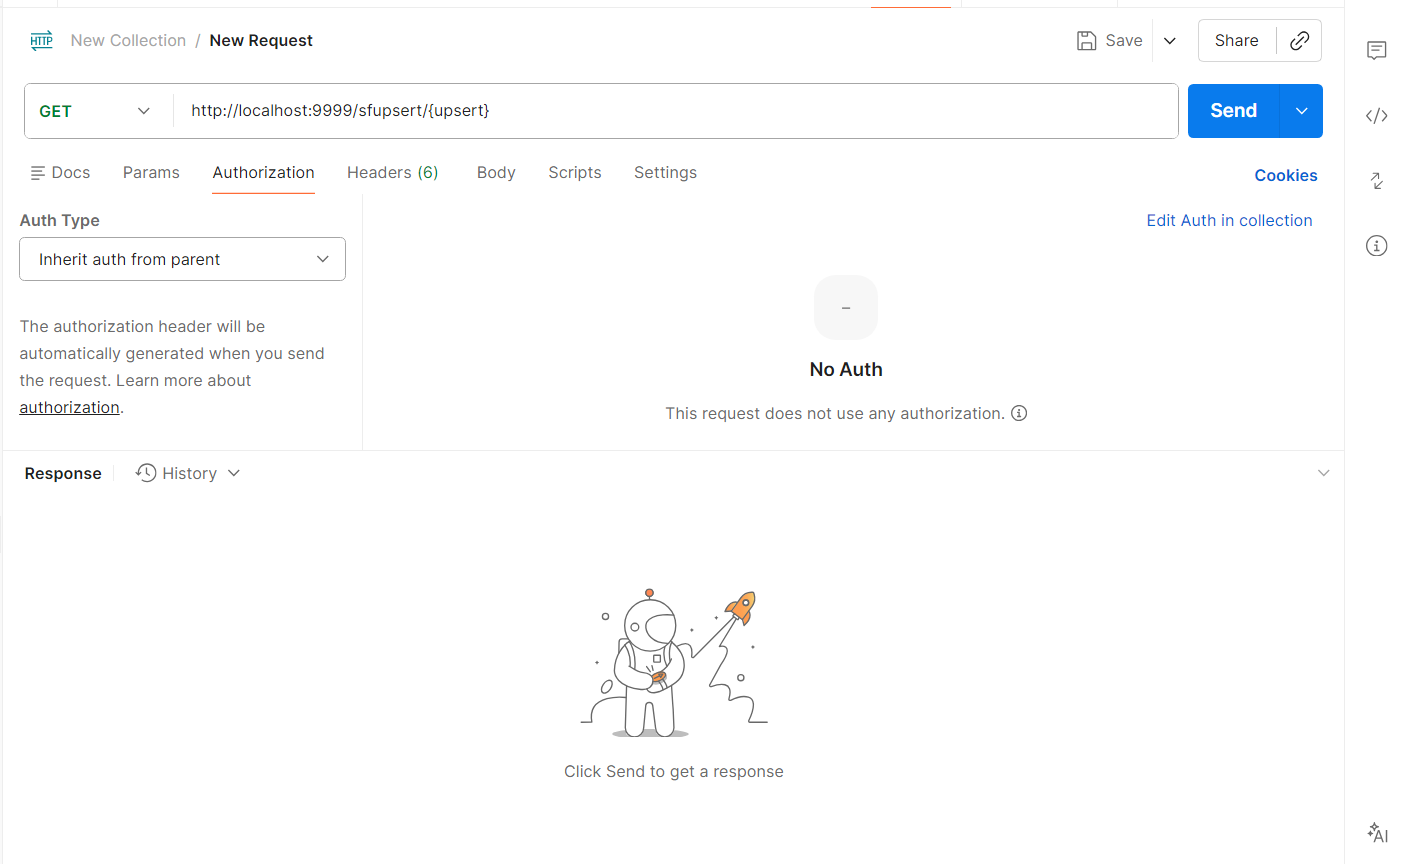
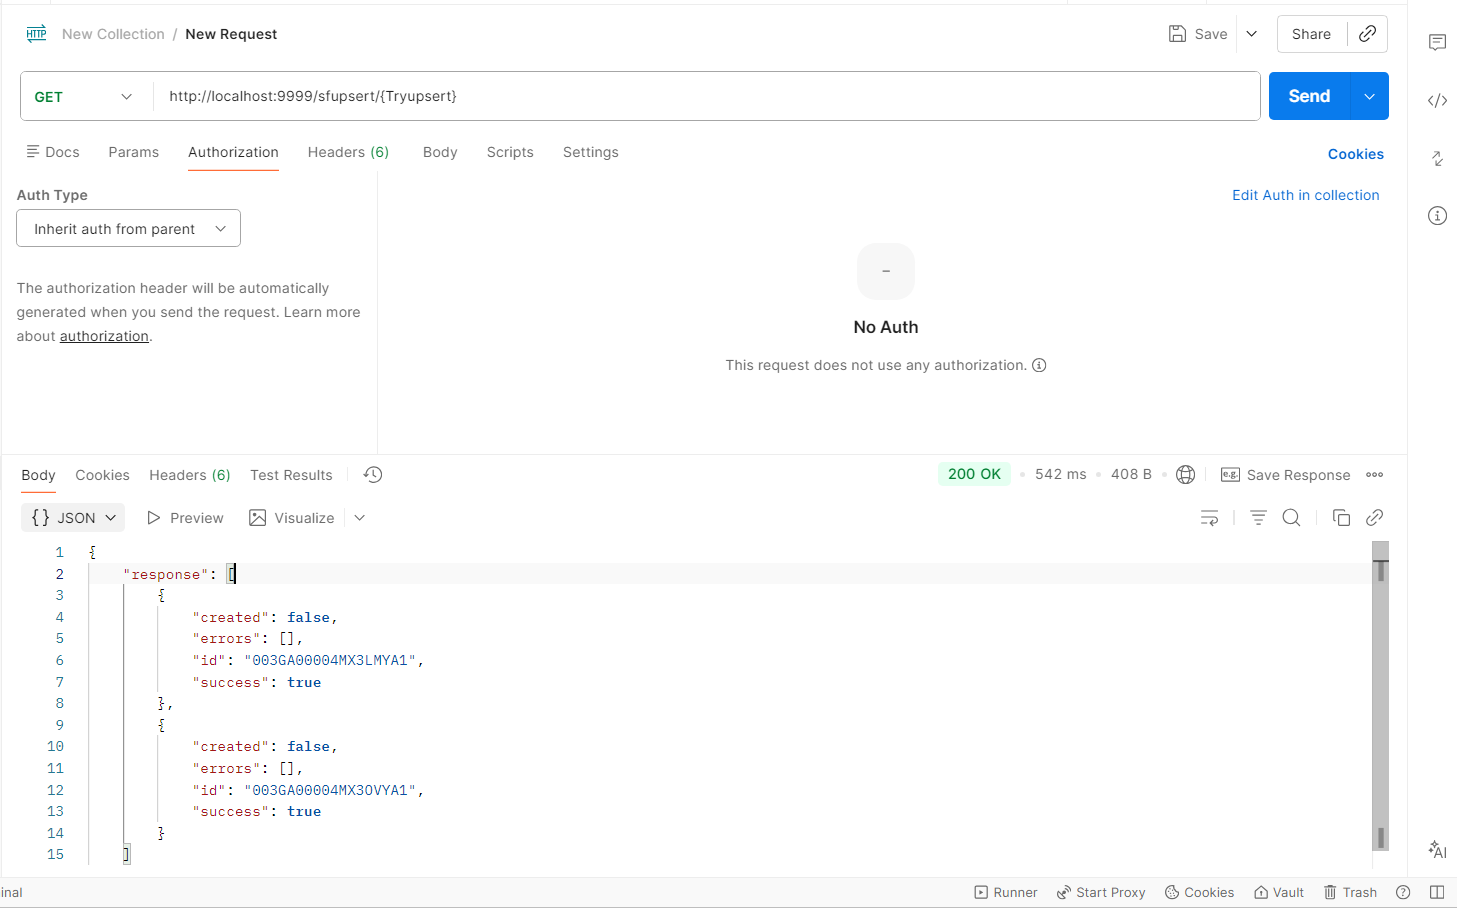
Salesforce Upsert and Change Data Capture

diff --git a/samples/VSCode_Extension/Connectors/CRM/Salesforce/SalesforceUpsertAndChangeDataCapture/readme.md b/samples/VSCode_Extension/Connectors/CRM/Salesforce/SalesforceUpsertAndChangeDataCapture/readme.md
@@ -1,21 +1,20 @@
 # Salesforce Upsert on Bulk records and Salesforce Trigger With Change Data Capture Example
 
-
+ 
 ## Description
 
-This example demonstrate how we can do the Upsert on multiple records in Salesforce using Salesforce Upsert activity in flogo. If the records in the collection have valid External Id Field Name values, the corresponding records in the database will be updated with the flow’s collection. If not, new records will be created and saved. In this example, records are fetched using query in MySQL database and those records are mapped to the Salesforce Upsert activity input and then those incoming records are either created or updated according to custom field called an external ID to determine whether to create a new record or update an existing record.
+This example demonstrates how we can do the Upsert on multiple records in Salesforce using Salesforce Upsert activity in flogo. If the records in the collection have valid External Id Field Name values, the corresponding records in the database will be updated with the flow’s collection. If not, new records will be created and saved. In this example, records are fetched using query in MySQL database and those records are mapped to the Salesforce Upsert activity input and then those incoming records are either created or updated according to custom field called an external ID to determine whether to create a new record or update an existing record.
 
-Then in the other flow, Salesforce trigger with the Subscriber type as Change data capture is getting executed once Upserted records in the Salesforce. Change Data Capture publishes change events in the flogo runtime logs, which represent changes to Salesforce records. In this example changes include creation of a new record and/or updates to an existing records. So in this case when SFUpsertWithMySQLDB flow executes, the salesforce trigger will start and provide respective output in the logs.
+Then in the other flow, Salesforce trigger with the Subscriber type as Change data capture is getting executed once records are upserted in Salesforce. Change Data Capture publishes change events in the flogo runtime logs, which represent changes to Salesforce records. In this example changes include creation of a new record and/or updates to an existing records. So in this case when SFUpsertWithMySQLDB flow executes, the salesforce trigger will start and provide respective output in the logs.
 
 
 ## Prerequisites 
  
-* Ensure that MySQL database must be install either on local computer or on AWS EC2 instance. 
+* Ensure that MySQL database must be installed either on local computer or on AWS EC2 instance. 
 * You need to make sure that your public ip is whitelisted (If you are using database hosted on AWS EC2 instance).
-* Ensure that Flogo Connector for Salesforce.com must be install.
 * Ensure that you have an active Salesforce.com account.
-* Ensure that you have set up the OAuth permissions in Salesforce.com before installing the connector which will be used in the Salesforce connection for Client ID and Client Secret parameters. To set up OAuth permissions, follow the steps mentioned in 'Creating a Salesforce.com Connection' topic in the TIBCO Flogo® Extension for Visual Studio Code documentation
-* Ensure that you have to add Change Data capture in Salesforce.com. To add Change Data capture in Salesforce.com, you can refer the Salesforce.com product documentation.
+* Ensure that you have set up the OAuth permissions in Salesforce.com which will be used in the Salesforce connection for Client ID and Client Secret parameters. To set up OAuth permissions, follow the steps mentioned in 'Creating a Salesforce.com Connection' topic in the TIBCO Flogo® Extension for Visual Studio Code documentation
+* Ensure that you have already added Change Data capture in Salesforce.com. To add Change Data capture in Salesforce.com, you can refer the Salesforce.com product documentation.
 
 ## Copy App 
 
@@ -40,7 +39,7 @@ Once you provide both the values then login to your salesforce account and allow
 
 ![The connectionAfterLogin](/samples/VSCode_Extension/images/CRM/Salesforce/SFSubscriberTypesWithUpsertActivity/Connection2.png)
 
-### The Flow and InvokeRestService activity
+### The Flow and Salesforce Upsert activity
 If you open the app, you will see there are two flows in the SFSubscriberTypesWithUpsertActivity app. The flow 'SFUpsertWithMySQLDB' and second flow 'SFChangeDataCapture'.
 
 ![Main Flows](/samples/VSCode_Extension/images/CRM/Salesforce/SFSubscriberTypesWithUpsertActivity/MainFlow.png)
@@ -58,7 +57,7 @@ Once you are ready to run the application, use the Run option to start the app.
 
 ![Run1](/samples/VSCode_Extension/images/CRM/Salesforce/SFSubscriberTypesWithUpsertActivity/Run1.png)
 
-Once you run this app using the VS Code extension, open the Postman app and select the GET method. Enter the URL/endpoint and then click the Send button to run the request.
+Once you run this app using the VS Code extension, open the Postman app and select the GET method. Enter the URL/endpoint (http://localhost:9999/sfupsert/{Testupsert}). You will have to pass value for the path parameter 'upsert'. You can provide any string type value for 'upsert' parameter and then click the Send button to run the request.
 
 ![Run2](/samples/VSCode_Extension/images/CRM/Salesforce/SFSubscriberTypesWithUpsertActivity/Run2.png)
 
@@ -77,4 +76,4 @@ Once you run this app using the VS Code extension, open the Postman app and sele
 ![Sample Logs 2](/samples/VSCode_Extension/images/CRM/Salesforce/SFSubscriberTypesWithUpsertActivity/log2.png)
 
 ## Help
-Please visit our [TIBCO Flogo<sup>&trade;</sup> Extension for Visual Studio Code documentation](https://docs.tibco.com/pub/flogo-vscode/latest/doc/html/Default.htm#connectors/salesforce/salesforceupsert.htm?Highlight=upsert%20)for additional information.
+Please visit our [TIBCO Flogo<sup>&trade;</sup> Extension for Visual Studio Code documentation](https://docs.tibco.com/pub/flogo-vscode/latest/doc/html/Default.htm#connectors/salesforce/salesforceupsert.htm?Highlight=upsert%20) for additional information.
